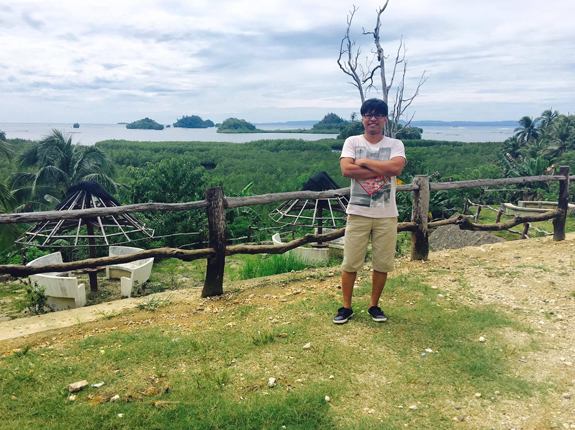
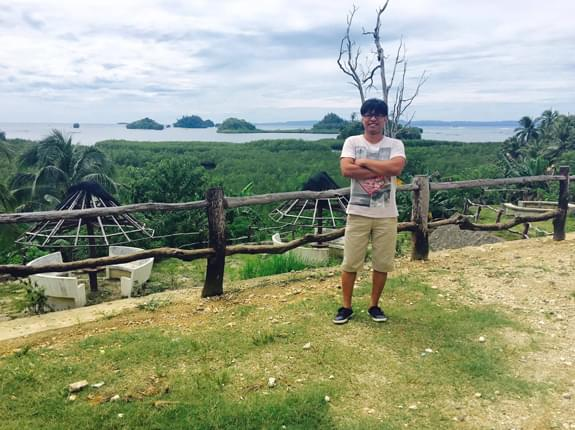
Finishing optimizing images

diff --git a/docs/index.html b/docs/index.html
@@ -76,7 +76,7 @@
         <div class="col-md-5">
           <div class="card u-bg-gradient-main u-color-white">
             <div class="card__photo">
-              <img class="lazyload card__img" data-srcset="assets/images/bambi-1.jpg" alt="Bambi">
+              <img class="lazyload card__img" data-srcset="assets/images/bambi-1new.jpg" alt="Bambi">
               <figcaption class="card__caption u-bg-gradient-main">Howdy!</figcaption>
             </div>
             <div class="card__body">
